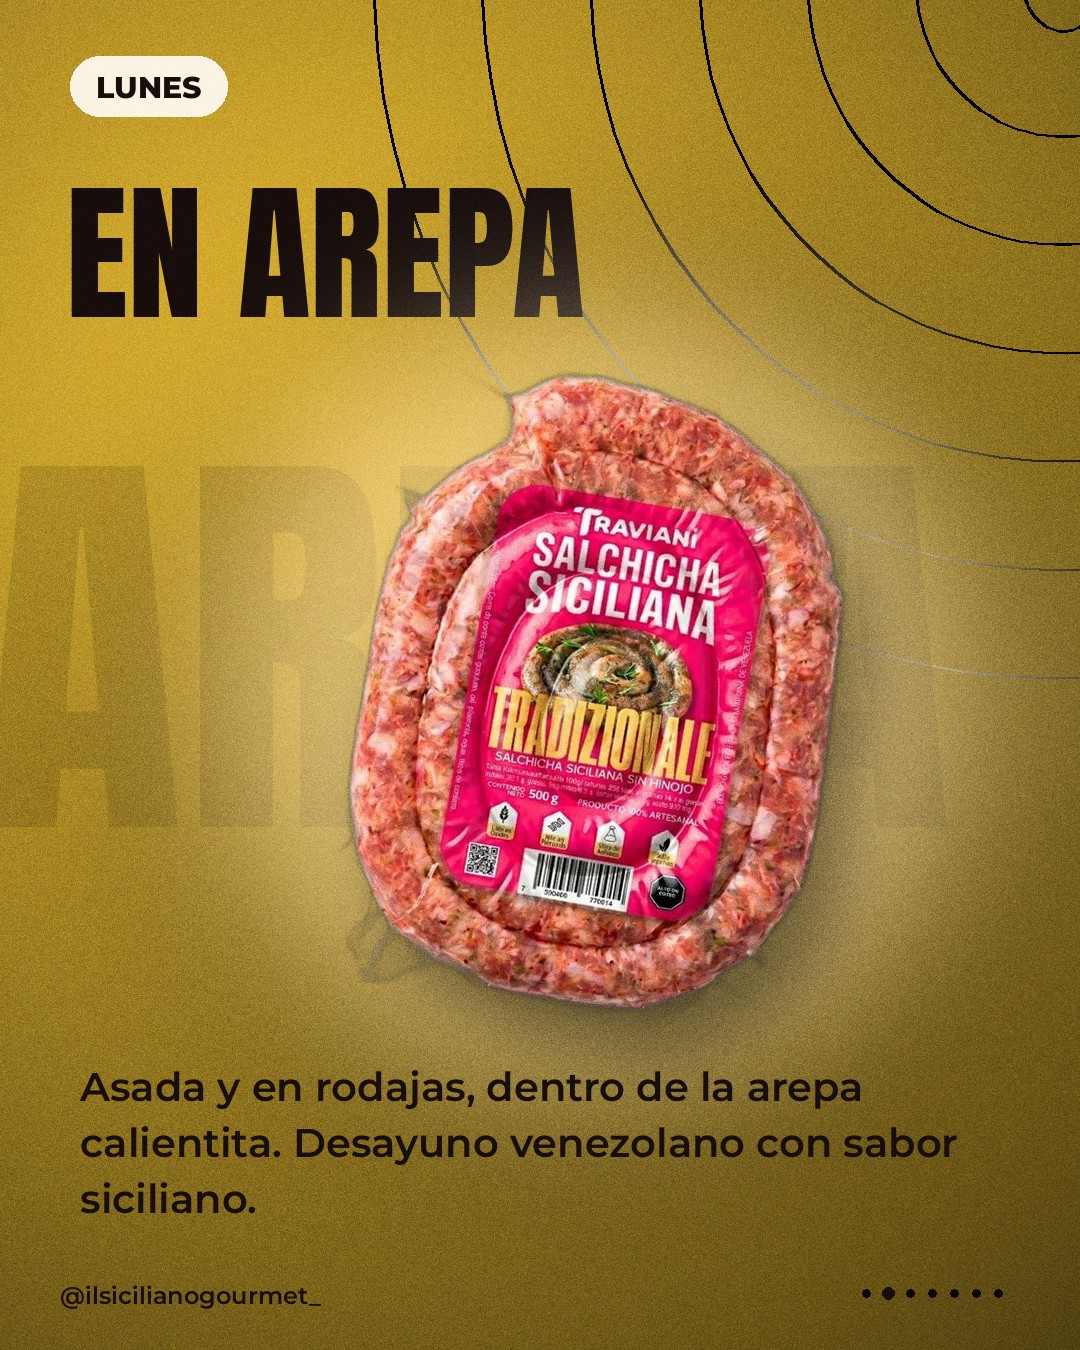
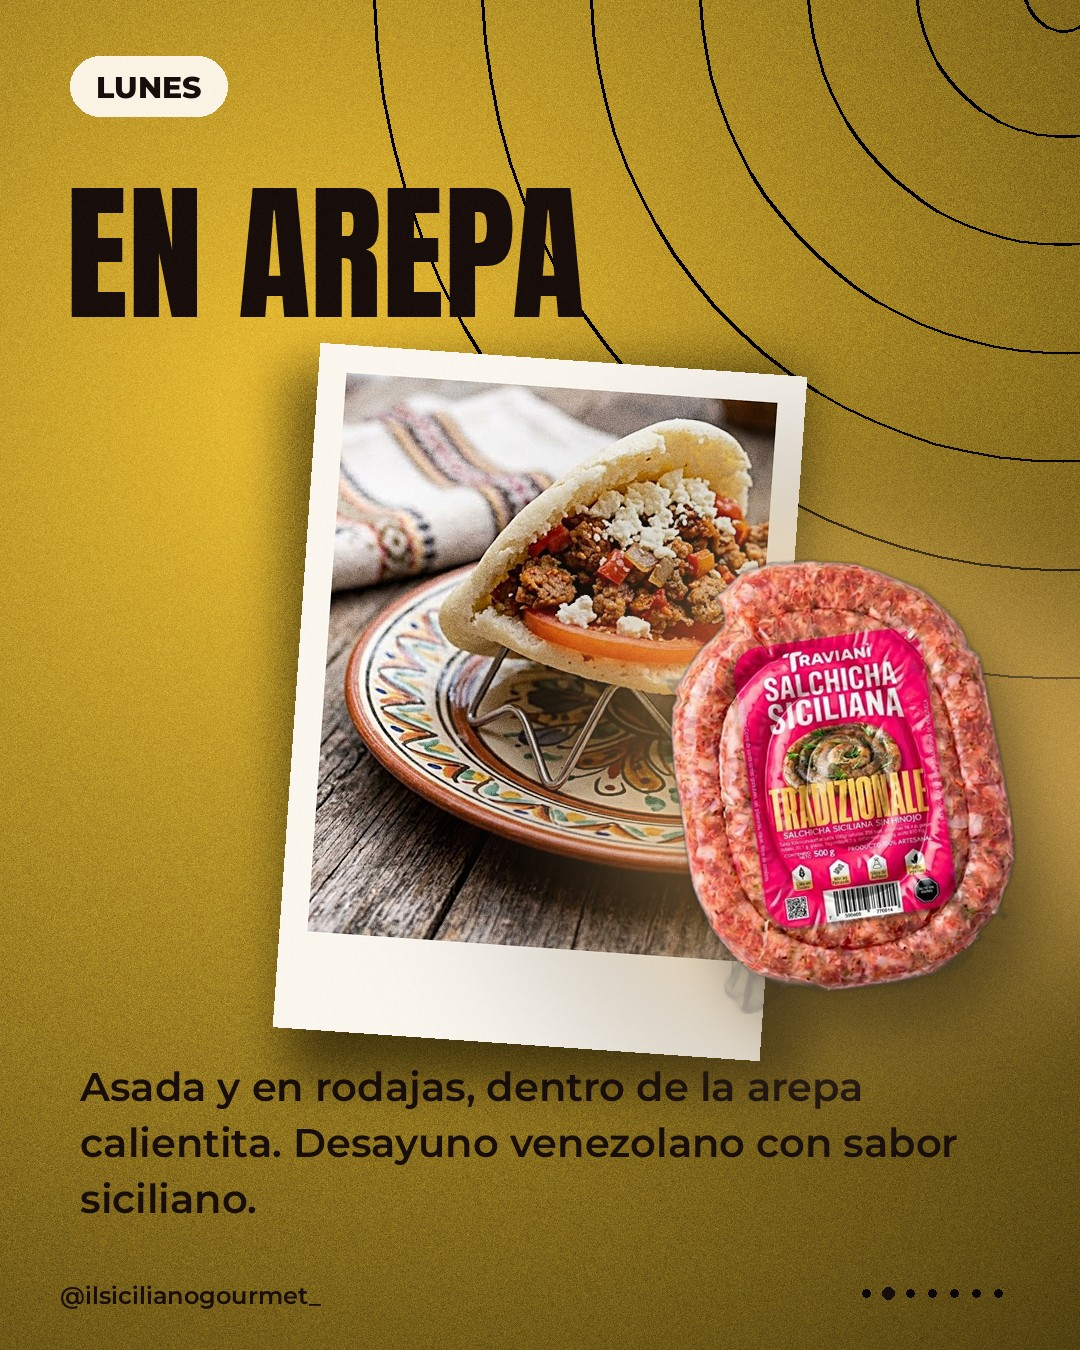
Día 6 v4: fotos de referencia editadas (arepa, panini, parrilla) con empaque
Claude-Session: https://claude.ai/code/session_01BoapLYkqJjC4bybfaGWR3T

diff --git a/dia06_v4.py b/dia06_v4.py
@@ -20,6 +20,9 @@ def dia(*a, post=None, **k):
 
 def laminas():
     pasta = D.cargar("pasta.png")
+    arepa = D.cargar("arepa_ref.png").crop((0, 320, 432, 880))
+    panini = D.cargar("panini_ref.png").crop((0, 70, 683, 400))
+    parri = D.cargar("parrilla_ref.png")
     pizza = Image.open(f"{D.FOT}/pizza_recorte.png").convert("RGBA")
     total = 7
     T = g.tt()
@@ -29,16 +32,19 @@ def laminas():
                                (2, 170, 20, 6, 0.78), (5, 0, -10, 0, 0.92)],
                               D.mesa_bg if False else (lambda h: D._mesa_oscura(h, 4, 70)), total),
         dia("LUNES", "EN AREPA", "Asada y en rodajas, dentro de la arepa calientita. Desayuno venezolano con sabor siciliano.",
-            "grafico", (238, 192, 52), 2, total, empaque_n=2, claro=True, ghost="AREPA"),
+            "polaroid", (238, 192, 52), 2, total, foto=arepa, claro=True,
+            post=((2, 0.575 if not T else 0.49, 0.33 if not T else 0.27, 8), dict(dx=300))),
         dia("MARTES", "EN PASTA", "Dorada en trozos y mezclada con salsa de tomate. Lista en 20 minutos.",
             "circulo", ROJO, 3, total, foto=pasta, caja=(150, 360, 690, 830),
-            post=((1, 0.66 if not T else 0.60, 0.30, -8), dict(dx=290))),
+            post=((1, 0.66 if not T else 0.52, 0.30 if not T else 0.25, -8), dict(dx=290))),
         dia("MIÉRCOLES", "EN PANINI", "Con pimentones asados y pan crujiente. El almuerzo rápido que sí llena.",
-            "grafico", (30, 120, 92), 4, total, empaque_n=4, ghost="PANINI"),
+            "polaroid", (30, 120, 92), 4, total, foto=panini,
+            post=((3, 0.57 if not T else 0.49, 0.33 if not T else 0.27, -8), dict(dx=-300))),
         dia("JUEVES", "EN PIZZA", "Sobre la masa, con queso y salsa. La pizza de jueves sube de nivel.",
             "recorte", (200, 84, 22), 5, total, foto=pizza, ghost="PIZZA", empaque_n=3),
         dia("VIERNES A DOMINGO", "A LA PARRILLA", "Entera, en espiral y con los panas. La forma clásica de comerla.",
-            "grafico", (20, 105, 118), 6, total, empaque_n=5, ghost="FUEGO"),
+            "circulo", (20, 105, 118), 6, total, foto=parri,
+            post=((5, 0.62 if not T else 0.50, 0.30 if not T else 0.25, -8), dict(dx=290))),
         lambda: D.lamina_cierre_parrilla("¿CUÁL PRUEBAS\nPRIMERO?", ENTREGA + [WA], "PIDE DIRECTO CON NOSOTROS", total,
                                          fotos=(3, 4, 1), fondo="ambar"),
     ]
